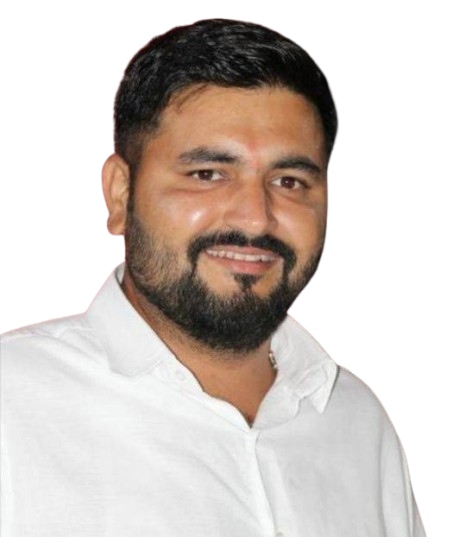
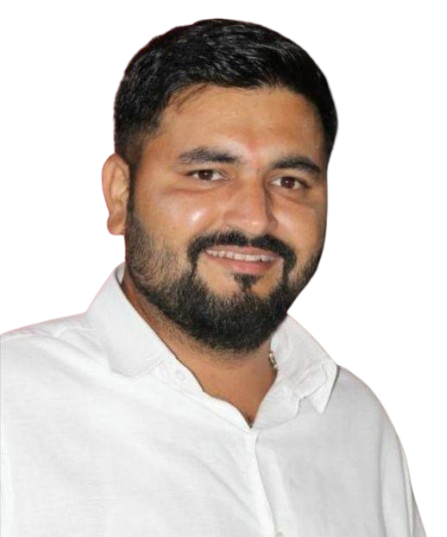
added test chat bot

diff --git a/clients.html b/clients.html
@@ -110,6 +110,8 @@
                 </div>
             </div>
         </section>
+        
+   
     </main>
 
     <!-- Footer -->
@@ -149,6 +151,71 @@
     </footer>
 
     <script src="home.js"></script>
+
+
+    
+
+<script>
+  // Wrap in DOMContentLoaded to ensure elements exist
+  document.addEventListener('DOMContentLoaded', () => {
+    const fab = document.querySelector('[data-chatbot-fab]');
+    const popup = document.querySelector('[data-chatbot-popup]');
+    const closeBtn = document.querySelector('[data-chatbot-close]');
+
+    if (!fab || !popup || !closeBtn) {
+      console.error('Chatbot elements not found. Check HTML placement/attributes.');
+      return;
+    }
+
+    const openChat = () => {
+      popup.hidden = false;      // show popup
+      fab.hidden = true;         // hide button
+      fab.setAttribute('aria-expanded', 'true');
+    };
+
+    const closeChat = () => {
+      popup.hidden = true;       // hide popup
+      fab.hidden = false;        // show button
+      fab.setAttribute('aria-expanded', 'false');
+    };
+
+    fab.addEventListener('click', openChat);
+    closeBtn.addEventListener('click', closeChat);
+
+    // ESC to close
+    document.addEventListener('keydown', (e) => {
+      if (e.key === 'Escape' && !popup.hidden) closeChat();
+    });
+  });
+</script>
+
+
+
+
+
+<!-- Floating Chat Button -->
+<button class="chatbot-fab" data-chatbot-fab aria-label="Open chat" aria-expanded="false">
+  <i class="fas fa-comment-dots" aria-hidden="true"></i>
+</button>
+
+<!-- Chatbot Popup -->
+<section class="chatbot-popup" data-chatbot-popup hidden aria-label="Chat window" role="dialog" aria-modal="true">
+  <header class="chatbot-header">
+    <span>MDT Assistant</span>
+    <button class="close-btn" data-chatbot-close aria-label="Close chat">&times;</button>
+  </header>
+  <div class="chatbot-body">
+    <iframe
+      src="https://copilotstudio.microsoft.com/environments/Default-31c24909-96eb-4559-9112-ef0712156858/bots/cr87e_mdtAssistant/webchat?__version__=2"
+      title="MDT Assistant"
+      loading="lazy"
+      referrerpolicy="no-referrer"
+      allow="clipboard-read; clipboard-write">
+    </iframe>
+  </div>
+</section>
+
+
 </body>
 
 </html>

diff --git a/clients.css b/clients.css
@@ -470,3 +470,83 @@ body {
         font-size: 1rem;
     }
 }
+
+
+
+
+
+
+
+
+
+
+
+
+
+
+
+/* Always on top, even over nav/menus */
+.chatbot-fab,
+.chatbot-popup { z-index: 9999; }
+
+/* Floating Button */
+.chatbot-fab {
+  position: fixed;
+  bottom: 20px;
+  right: 20px;
+  background: #0078d4;
+  color: #fff;
+  width: 60px;
+  height: 60px;
+  border: 0;
+  border-radius: 50%;
+  display: grid;
+  place-items: center;
+  font-size: 28px;
+  cursor: pointer;
+  box-shadow: 0 6px 15px rgba(0,0,0,0.2);
+}
+
+/* Popup */
+.chatbot-popup {
+  position: fixed;
+  bottom: 90px;
+  right: 20px;
+  width: 360px;
+  max-width: 92vw;
+  height: 520px;
+  background: #fff;
+  border-radius: 12px;
+  box-shadow: 0 8px 25px rgba(0,0,0,0.25);
+  display: flex;
+  flex-direction: column;
+  overflow: hidden;
+}
+
+.chatbot-header {
+  background: #0078d4;
+  color: #fff;
+  padding: 10px 14px;
+  display: flex;
+  justify-content: space-between;
+  align-items: center;
+  font-weight: 600;
+}
+
+.chatbot-header .close-btn {
+  background: transparent;
+  border: none;
+  color: #fff;
+  font-size: 22px;
+  cursor: pointer;
+  line-height: 1;
+}
+
+.chatbot-body { flex: 1; background: black; }
+.chatbot-body iframe { width: 100%; height: 100%; border: 0; }
+
+/* Safety: never let hidden items capture clicks */
+[hidden] { display: none !important; }
+
+/* Optional: prevent any full-page overlay from blocking clicks */
+body { position: relative; }

diff --git a/leadership.html b/leadership.html
@@ -5,7 +5,7 @@
   <meta charset="UTF-8">
   <meta name="viewport" content="width=device-width, initial-scale=1.0">
   <title>About Us - Astrea IT Services</title>
-  <link rel="stylesheet" href="home.css">
+  
   <link rel="stylesheet" href="leadership.css">
   <link rel="stylesheet" href="https://cdnjs.cloudflare.com/ajax/libs/font-awesome/6.4.0/css/all.min.css">
 
@@ -295,7 +295,7 @@
   <!-- 19. Akshi Priya -->
   <div class="team-member">
     <div class="member-image-container">
-      <img src="akshi.png" alt="Akshi Priya" class="member-image">
+      <img src="akshi.jpg" alt="Akshi Priya" class="member-image">
     </div>
     <div class="member-info">
       <h3 class="member-name">Akshi Priya</h3>
@@ -407,7 +407,7 @@
   <!-- 27. James Masih -->
   <div class="team-member">
     <div class="member-image-container">
-      <img src="jamesSir2.png" alt="James Masih" class="member-image">
+      <img src="james3.png" alt="James Masih" class="member-image">
     </div>
     <div class="member-info">
       <h3 class="member-name">James Masih</h3>

diff --git a/careers.css b/careers.css
@@ -91,9 +91,6 @@ body {
 }
 
 
-
-
-
 .nav-links a:hover::after {
     width: 100%;
 }
